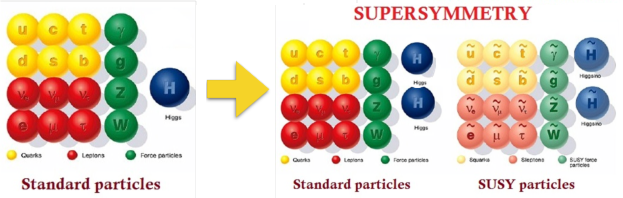
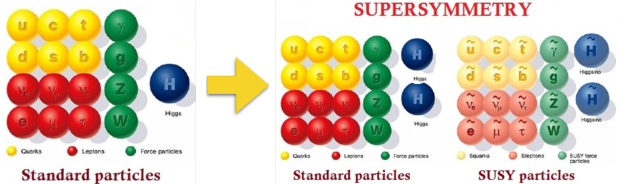
nicht intuitiv

diff --git a/Section1.tex b/Section1.tex
@@ -1,6 +1,6 @@
 %--- Jens:
 \begin{frame}{SUSY theory}
-	\begin{block}{ - text -}
+	\begin{block}{ }
 		\begin{itemize}
 \item symmetry under spin transformation\\
 \item MSSM: model with fewest new particles% but $10^2$ free parameters\\
@@ -12,7 +12,7 @@
 
 	\begin{figure}[B]
 		\centering
-	 	\includegraphics[width=1\textwidth,]{figures/mssm2.png}
+	 	\includegraphics[width=1\textwidth,]{figures/mssm.png}
 		\caption{
 			\begin{tiny}
 	source:  http://inspirehep.net/record/1407182/files/SUSY.png
@@ -37,7 +37,7 @@
 %\end{frame}
 
 \begin{frame}{SUSY phenomenology}
-	\begin{block}{ - text - }
+	\begin{block}{  }
 		\begin{itemize}
 %\item quantum number $R=(-1)^{3B+L+2S} \quad R_{SM}=+1 \qualld R_{SUSY}=-1$ \\
 \item conservation of R-parity leads to stable LSP\\
@@ -45,7 +45,7 @@
 \item SUSY production: \quad gluino or squark pair production\\
 \item SUSY decay: \quad $\tilde{g} \rightarrow q +\tilde{q};\quad  \tilde{q} \rightarrow q + LSP;$\\ 
 % \quad leading to high $H_T$ and many jets\\ 
-\item background: all processes with high $H_T, \slashed{H}_T$ and many jets
+\item expect hadronic signatures with high $H_T, \slashed{H}_T$ and many jets
 %$W(l\nu)+jets, Z(\nu\nu)+jets, t\bar{t}+jets, QCD$ 
 		\end{itemize}
 	\end{block}
